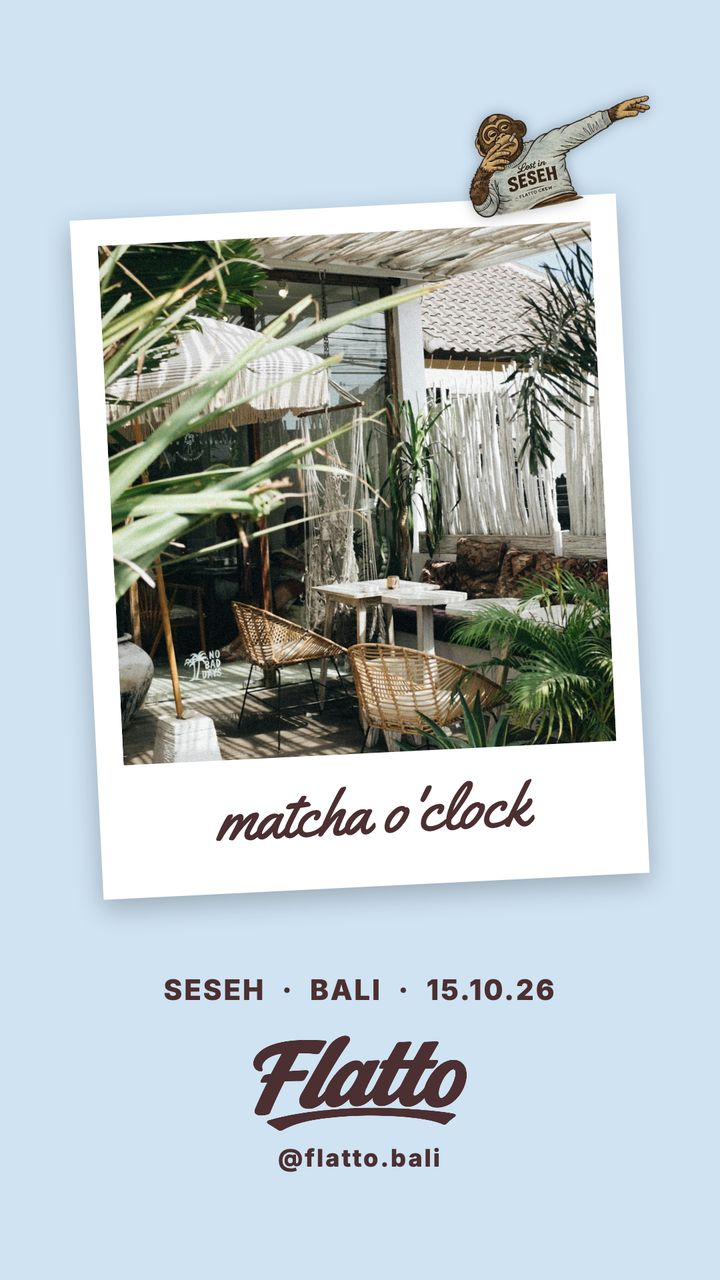
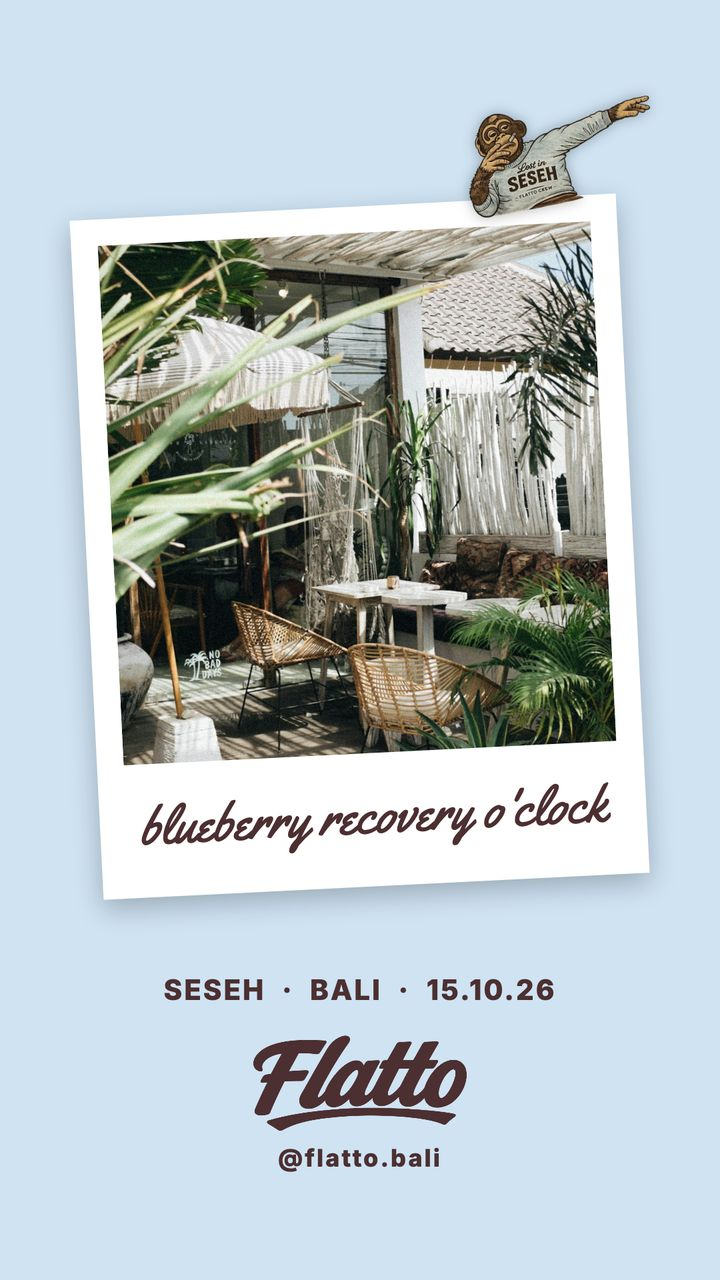
Real menu items

Changed region(s): [[0.1833, 0.5938, 0.8556, 0.6875]]

diff --git a/index.html b/index.html
@@ -144,15 +144,6 @@ a{color:var(--sky)}
     </div>
   </div>
 
-  <section id="coffeeSection" hidden>
-    <h2>Your order</h2>
-    <div class="chips">
-      <label class="chip"><input type="radio" name="drink" value="FLAT WHITE" checked><span>Flat white</span></label>
-      <label class="chip"><input type="radio" name="drink" value="ICED LATTE"><span>Iced latte</span></label>
-      <label class="chip"><input type="radio" name="drink" value="MATCHA"><span>Matcha</span></label>
-      <label class="chip"><input type="radio" name="drink" value="COLD BREW"><span>Cold brew</span></label>
-    </div>
-  </section>
 
   <section id="runSection">
     <h2>Your run</h2>
@@ -167,6 +158,18 @@ a{color:var(--sky)}
     <input id="num" type="number" min="1" value="1" hidden>
     <div class="chips" style="margin-top:12px"><label class="chip"><input type="checkbox" id="hideNums"><span>Hide my numbers on the story</span></label></div>
     <div class="level"><span id="lvlText">Run 1 at Flatto</span><span class="bar"><i id="lvlBar" style="width:0"></i></span></div>
+  </section>
+
+  <section id="orderSection">
+    <h2>Your order <small>FROM THE MENU</small></h2>
+    <div class="chips">
+      <label class="chip"><input type="radio" name="drink" value="LATTE" checked><span>Latte</span></label>
+      <label class="chip"><input type="radio" name="drink" value="MATCHA LATTE"><span>Matcha latte</span></label>
+      <label class="chip"><input type="radio" name="drink" value="ESPRESSO TONIC"><span>Espresso tonic</span></label>
+      <label class="chip"><input type="radio" name="drink" value="SESEH SHAKE"><span>Seseh shake</span></label>
+      <label class="chip"><input type="radio" name="drink" value="BLUEBERRY RECOVERY"><span>Blueberry recovery</span></label>
+      <label class="chip"><input type="radio" name="drink" value="FRESH COCONUT"><span>Fresh coconut</span></label>
+    </div>
   </section>
 
   <div class="cta">
@@ -525,7 +528,7 @@ function draw(){
     [['KM',d.dist],['PACE',d.pace],['TIME',d.time]].forEach(([l,v],i)=>{const cx=x+w*(i*2+1)/6;text(l,cx,y+640,'600 30px Inter',c,'center',5);text(v,cx,y+720,'800 68px Inter',c)});
     scriptLogo(W/2,y+h-50,110,c);footer(y+h+80,c,d);
   }else if(st==='receipt'){
-    drawReceipt(c,[['RUN',`#${d.num}`],['DISTANCE',`${d.dist} KM`],['TIME',d.time],['PACE',`${d.pace} /KM`]],'1 FLAT WHITE',myBit(d)||d.tier||'THANK YOU, RUNNER');
+    drawReceipt(c,[['RUN',`#${d.num}`],['DISTANCE',`${d.dist} KM`],['TIME',d.time],['PACE',`${d.pace} /KM`]],`1 ${val('drink')}`,myBit(d)||d.tier||'THANK YOU, RUNNER');
   }else if(st==='stamp'){
     scriptLogo(W/2,360,160,c);text(HANDLE,W/2,455,'800 34px Inter',c,'center',3);
     drawStamp(c,'FLATTO RUN CLUB',`SESEH · BALI · ${now.getFullYear()}`,d.dist,'KILOMETRES');
@@ -602,7 +605,7 @@ function draw(){
     ctx.save();ctx.translate(W/2,830);ctx.rotate(-.05);ctx.shadowColor='rgba(0,0,0,.25)';ctx.shadowBlur=40;ctx.shadowOffsetY=14;
     ctx.fillStyle='#FFFFFF';ctx.fillRect(-410,-520,820,1020);ctx.shadowColor='transparent';ctx.shadowBlur=0;ctx.shadowOffsetY=0;
     coverRect(bgMedia(),-370,-480,740,780);
-    ctx.font='96px Yellowtail';ctx.fillStyle='#4C2F31';ctx.textAlign='center';ctx.fillText(`${drink} o'clock`,0,420);
+    ctx.fillStyle='#4C2F31';ctx.textAlign='center';{const cap=`${drink} o'clock`;ctx.font='96px Yellowtail';const cw=ctx.measureText(cap).width;if(cw>700)ctx.font=`${96*700/cw}px Yellowtail`;ctx.fillText(cap,0,420)}
     ctx.restore();
     drawMascot(W-240,150,380);
     text(`SESEH  ·  BALI  ·  ${ds}`,W/2,1500,'800 42px Inter',ink,'center',3);
@@ -614,7 +617,7 @@ function draw(){
 const val=n=>document.querySelector(`input[name=${n}]:checked`).value;
 const MODES={run:['big','receipt','stamp','tee','mascot','polaroid','classic','bib'],coffee:['c-receipt','c-stamp','c-logo','c-tee','c-mascot','c-polaroid'],secret:['s-big','s-receipt','s-stamp','s-mascot','s-polaroid']};
 let STYLES=MODES.run,styleIdx=0;
-document.querySelectorAll('input[name=mode]').forEach(i=>i.addEventListener('change',()=>{const m=val('mode');STYLES=MODES[m==='run'&&$('hideNums').checked?'secret':m];$('runSection').hidden=m!=='run';$('coffeeSection').hidden=m!=='coffee';setStyle(0)}));
+document.querySelectorAll('input[name=mode]').forEach(i=>i.addEventListener('change',()=>{const m=val('mode');STYLES=MODES[m==='run'&&$('hideNums').checked?'secret':m];$('runSection').hidden=m!=='run';setStyle(0)}));
 document.querySelectorAll('input[name=drink]').forEach(i=>i.addEventListener('change',draw));
 $('hideNums').addEventListener('change',()=>{STYLES=MODES[$('hideNums').checked?'secret':'run'];setStyle(0)});
 function setStyle(i){styleIdx=(i+STYLES.length)%STYLES.length;$('dots').innerHTML=STYLES.map((_,k)=>`<i class="${k===styleIdx?'on':''}"></i>`).join('');draw()}
